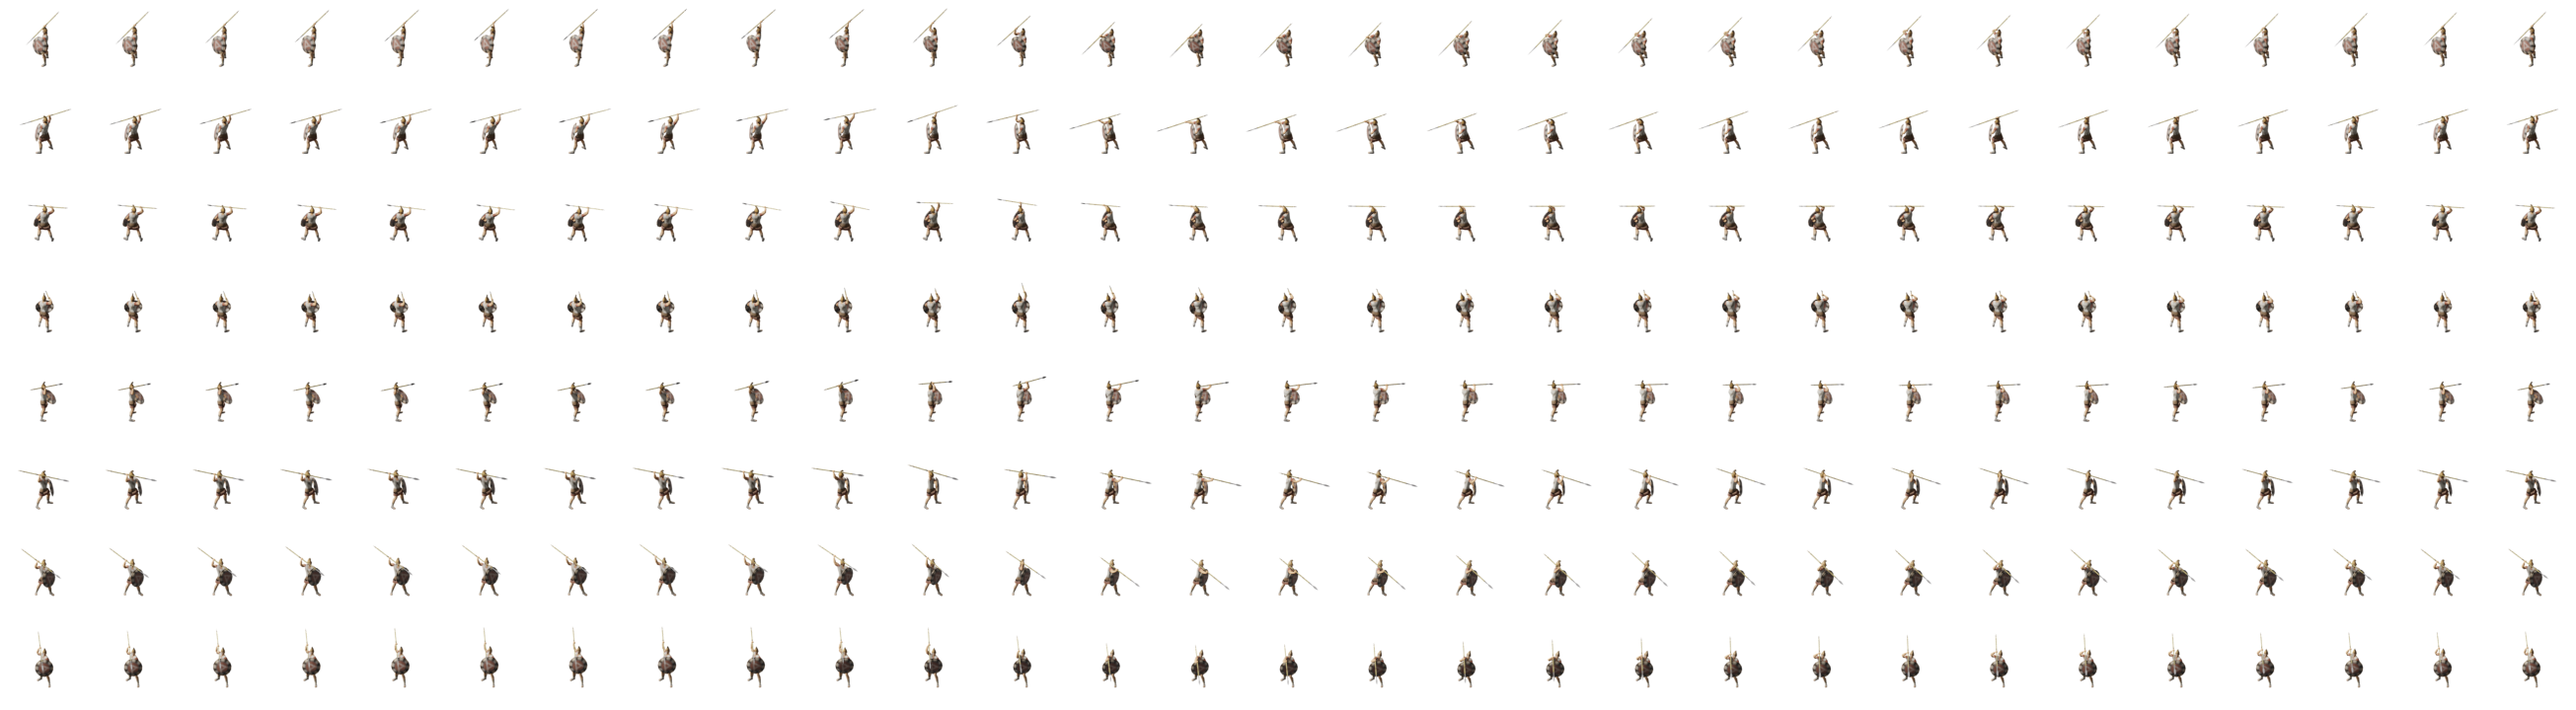
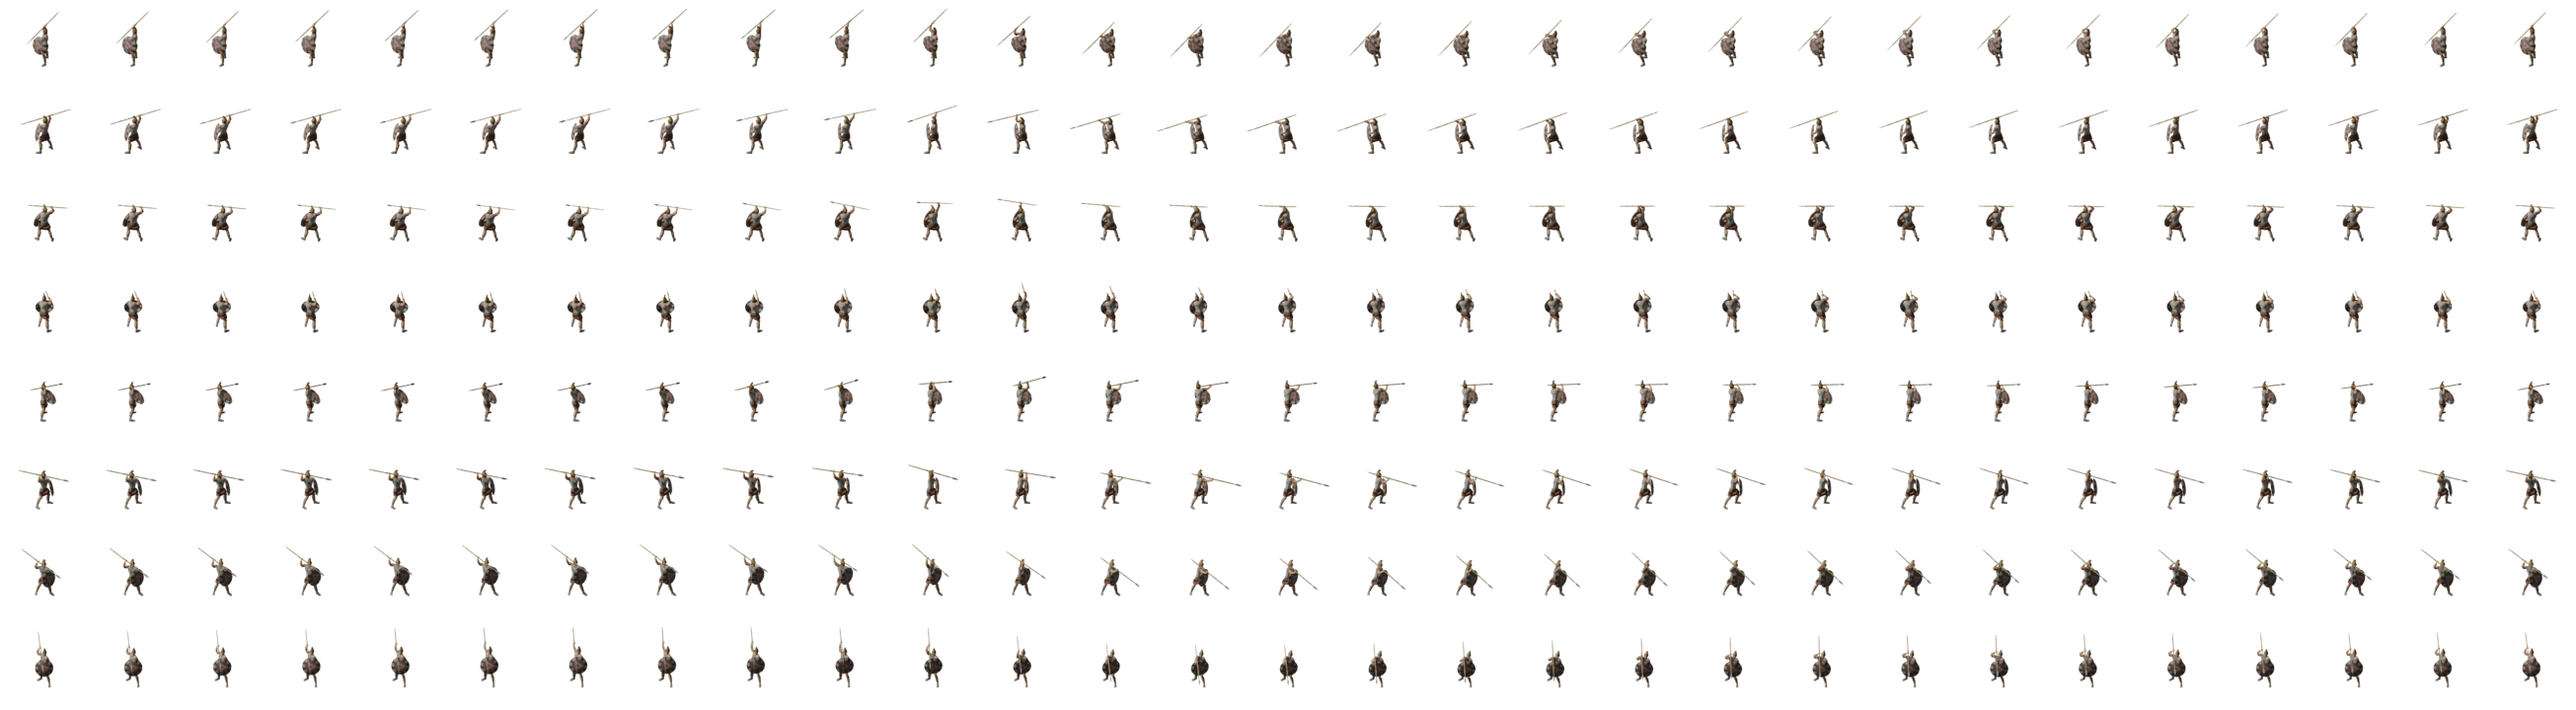
legions vs hoplites

diff --git a/games/game0/maps/systems_test/viewport_spawner/viewport_spawner.c b/games/game0/maps/systems_test/viewport_spawner/viewport_spawner.c
@@ -406,8 +406,8 @@ bbFlag bbViewportSpawnHoplite(bbViewportApp* viewport_app,
 
     unit->drawable.functions.on_enter = bbDrawables_getFunction(&home.viewport_app.table, "SPAWN HOPLITES");
     unit->drawable.functions.on_leave = bbDrawables_getFunction(&home.viewport_app.table, "UNSPAWN FOXES");
-    unit->drawable.functions.on_square_enter = bbDrawables_getFunction(&home.viewport_app.table, "SPAWN FOXES");
-    unit->drawable.functions.on_square_leave = bbDrawables_getFunction(&home.viewport_app.table, "SPAWN HOPLITES");
+    unit->drawable.functions.on_square_enter = bbDrawables_getFunction(&home.viewport_app.table, "SPAWN HOPLITES");
+    unit->drawable.functions.on_square_leave = bbDrawables_getFunction(&home.viewport_app.table, "UNSPAWN FOXES");
 
     unit->drawable.last_state_change = 0; //set this value from the simulation thread when spawned
     unit->drawable.last_wander_time = 0;

diff --git a/games/game0/maps/systems_test/render_units/render_units.c b/games/game0/maps/systems_test/render_units/render_units.c
@@ -14,7 +14,7 @@ bbFlag bbRenderUnits_populateFunctions (bbRenderUnits* render_units){
 
     bbRenderUnits_addSpawnFunction(render_units,
                                           (void*)bbRenderUnitGroup_spawnFoxes_fn,
-                                          "FOXES");
+                                          "SPAWN FOXES");
     bbRenderUnits_addSpawnFunction(render_units,
                                           (void*)bbRenderUnitGroup_unspawnNULL_fn,
                                           "UNSPAWN NULL");

diff --git a/games/game0/maps/systems_test/render_units/drawable_functions.c b/games/game0/maps/systems_test/render_units/drawable_functions.c
@@ -49,7 +49,7 @@ bbFlag bbRUG_spawnNULL_fn(struct bbRenderUnits* render_units, bbDrawable* drawab
 bbFlag bbDNV_spawnFoxes(struct bbDrawables* drawables, struct bbDrawable* drawable) {
 
     bbRenderUnitGroup_spawnKey(home.viewport_app.renderUnits,
-                               "FOXES",
+                               "SPAWN FOXES",
                                drawable);
     return bbSuccess;
 }
